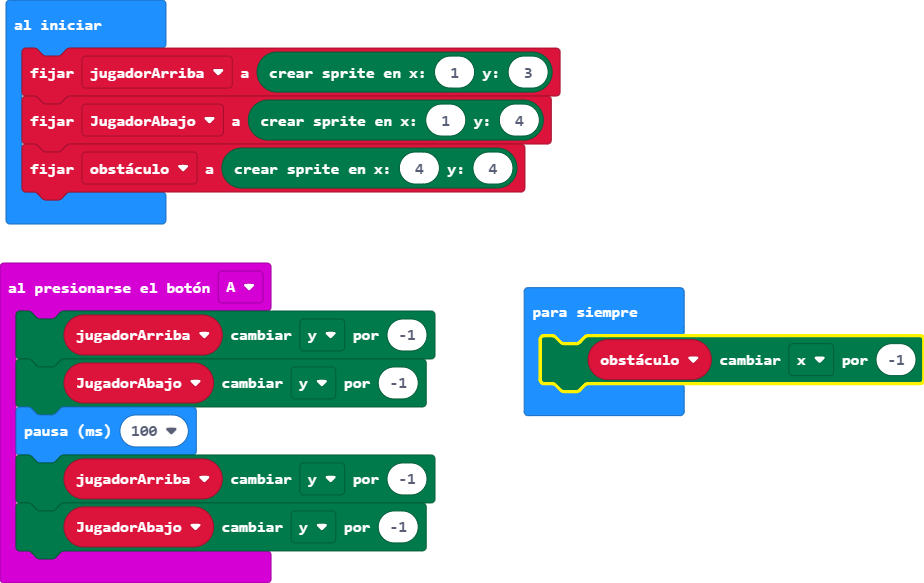
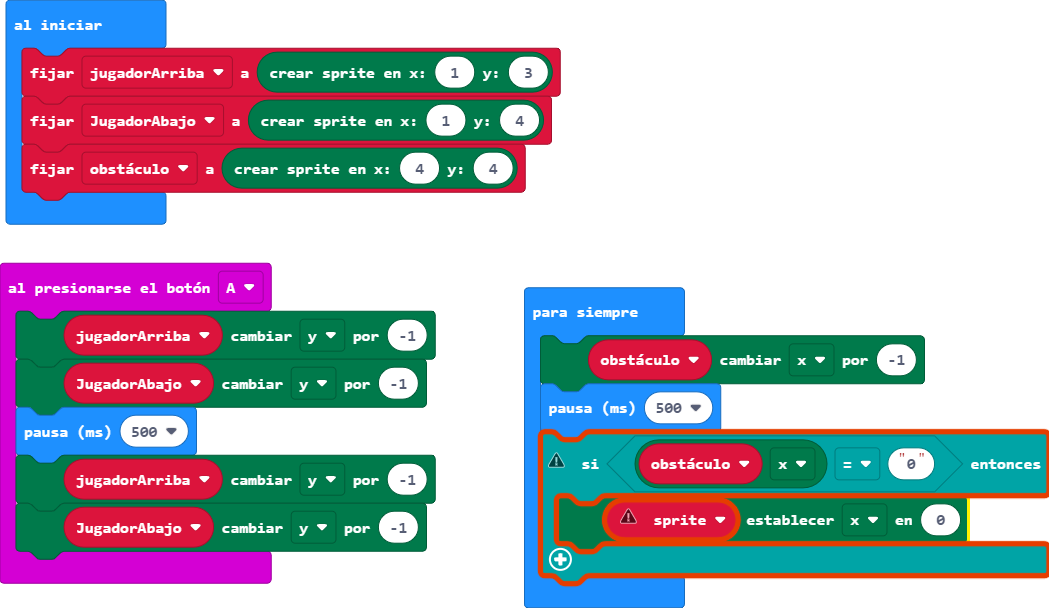
Actualizar main.blocks, main.ts

diff --git a/main.ts b/main.ts
@@ -1,7 +1,7 @@
 input.onButtonPressed(Button.A, function () {
     jugadorArriba.change(LedSpriteProperty.Y, -1)
     JugadorAbajo.change(LedSpriteProperty.Y, -1)
-    basic.pause(100)
+    basic.pause(500)
     jugadorArriba.change(LedSpriteProperty.Y, -1)
     JugadorAbajo.change(LedSpriteProperty.Y, -1)
 })
@@ -12,4 +12,9 @@ JugadorAbajo = game.createSprite(1, 4)
 let obstáculo = game.createSprite(4, 4)
 basic.forever(function () {
     obstáculo.change(LedSpriteProperty.X, -1)
+    basic.pause(500)
+    if (obstáculo.get(LedSpriteProperty.X) == "0") {
+        let sprite: game.LedSprite = null
+        sprite.set(LedSpriteProperty.X, 0)
+    }
 })
